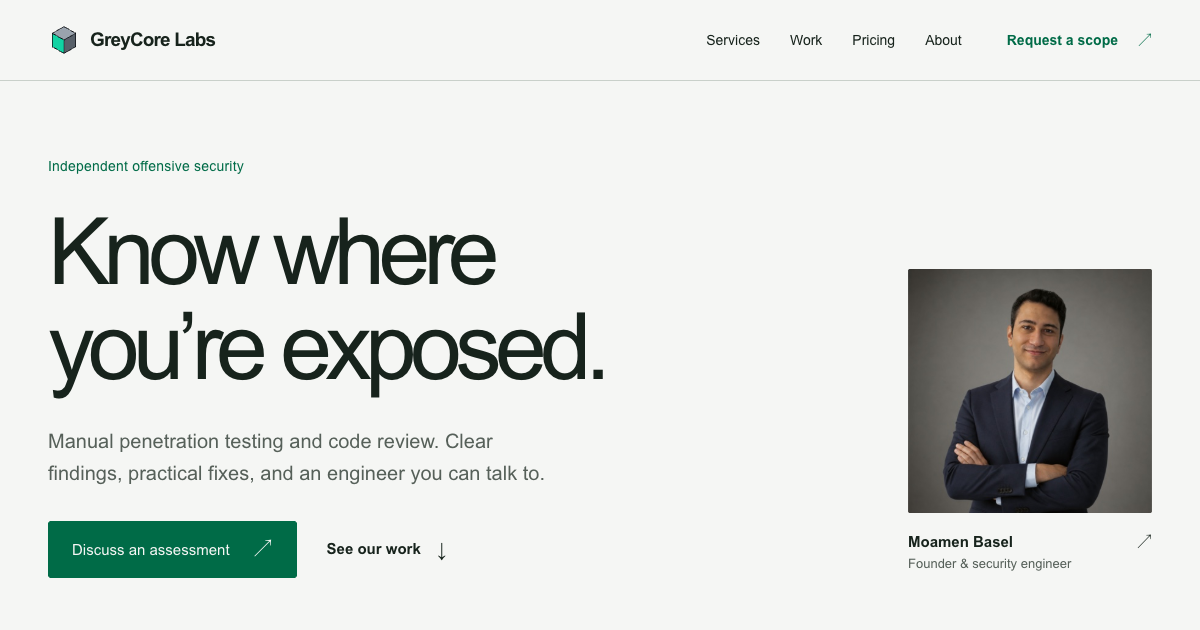
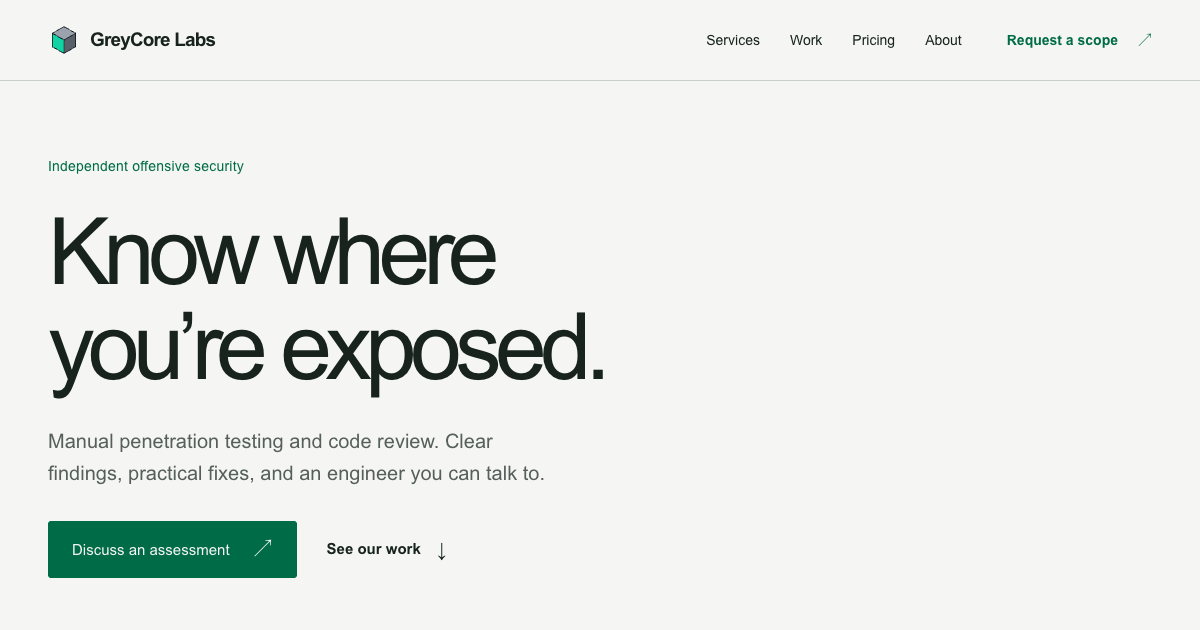
Remove the founder portrait from the homepage and social preview

Changed region(s): [[0.74, 0.4222, 0.9867, 0.8143], [0.74, 0.8444, 0.8942, 0.9048]]

diff --git a/assets/site.css b/assets/site.css
@@ -43,15 +43,13 @@ p{max-width:65ch}
 .nav-links>a{padding:12px 0}
 .nav-links .nav-contact{margin-left:15px;display:inline-flex;gap:20px;align-items:center;color:var(--accent);font-weight:600}
 .nav-toggle{display:none;color:var(--ink);background:none;border:1px solid var(--line);padding:8px 14px;border-radius:3px;cursor:pointer}
-.hero{padding-block:74px 88px;display:grid;grid-template-columns:minmax(0,1fr) 244px;gap:65px;align-items:end}
+.hero{padding-block:74px 88px}
+.hero-copy{max-width:960px}
 .hero .eyebrow{margin-bottom:28px}
 .hero h1{font-size:clamp(64px,7.75vw,108px);font-weight:500;letter-spacing:-.072em;line-height:1.02}
 .hero-description{color:var(--muted);font-size:20px;line-height:1.6;max-width:46ch;margin-top:30px}
 .hero-actions{display:flex;align-items:center;gap:30px;flex-wrap:wrap;margin-top:32px}
-.hero-founder{margin-bottom:3px}
-.hero-founder>img{aspect-ratio:1;object-fit:cover;border-radius:2px}
-.hero-founder figcaption{padding-top:17px;display:flex;flex-direction:column;font-size:13px;color:var(--muted)}
-.hero-founder figcaption a{color:var(--ink);font-size:15px;font-weight:600;display:flex;justify-content:space-between;gap:12px}
+
 #services{border-top:1px solid var(--line)}
 .service-list{border-top:1px solid var(--line)}
 .service{display:grid;grid-template-columns:1fr 1.25fr;gap:64px;padding-block:32px;border-bottom:1px solid var(--line)}
@@ -163,9 +161,9 @@ legend{font-size:13px;font-weight:500;padding:0;margin-bottom:10px}
 .footer-bottom p a{text-decoration:underline}
 .footer-bottom p span{margin-inline:8px}
 @media(prefers-color-scheme:dark){:root{--bg:#18211c;--surface:#202c24;--ink:#ecf0e9;--muted:#b3c0b5;--line:#405146;--accent:#8cdbb4;--button-text:#17231c;--error:#f3a69b}}
-@media(min-width:1440px){.hero{gap:90px;grid-template-columns:minmax(0,1fr) 270px;padding-block:88px 100px}}
-@media(max-width:1100px){.wrap{width:calc(100% - 64px)}.hero{grid-template-columns:minmax(0,1fr) 210px;gap:36px}.hero h1{font-size:7.7vw}.hero-description{font-size:18px}.nav-links{gap:22px}.nav-links .nav-contact{margin-left:0;gap:12px}.process-layout,.about-layout,.scan-layout{gap:55px}.work-layout{gap:38px}.sast-plan{grid-template-columns:1fr 85px 1.4fr 64px;gap:20px}.scope-sizer{gap:30px;padding:28px}.scope-result{padding-left:28px}}
-@media(max-width:900px){.header-inner{min-height:72px;flex-wrap:wrap;gap:0}.js .nav-toggle{display:block}.nav-links{width:100%;padding-bottom:16px;justify-content:space-between;gap:12px;flex-wrap:wrap}.js .nav-links{display:none}.js .nav-links.open{display:flex;align-items:stretch;flex-direction:column;padding-top:12px}.nav-links .nav-contact{margin:0}.nav-links a{padding:10px 0}.hero{grid-template-columns:minmax(0,1fr) 185px;gap:28px;padding-block:56px 64px}.hero h1{font-size:7.7vw}.hero-description{font-size:17px;max-width:35ch}.hero-founder figcaption{font-size:11px}.hero-founder figcaption a{font-size:13px}.hero-actions{gap:20px}.hero-actions .button{font-size:13px;padding-inline:17px;gap:16px}.section{padding-block:76px}.section-intro{margin-bottom:38px}.section-intro>p{font-size:16px}.section-title{font-size:42px}.service{gap:36px;grid-template-columns:.85fr 1.3fr}.service h3{font-size:24px}.service p{font-size:15px}.process-layout{grid-template-columns:1fr;gap:42px}.process-layout .section-intro{max-width:600px}.process-list{display:grid;grid-template-columns:1fr 1fr;gap:30px}.process-list li{margin:0}.process-content>.text-link{margin-top:28px}.work-layout{gap:28px}.research-feature{padding:28px}.assessment-plans{gap:38px}.scope-sizer{grid-template-columns:1fr;gap:28px}.scope-result{padding:24px 0 0;border-left:0;border-top:1px solid var(--line)}.sast-plan{grid-template-columns:1fr 90px;gap:12px 30px}.sast-plan>p:not(.sast-price){grid-column:1;max-width:60ch}.sast-plan>a{grid-column:2;text-align:left}.about-layout,.scan-layout{gap:40px}.faq-layout{grid-template-columns:1fr;gap:32px}.footer-top{align-items:flex-start}.footer-top nav{justify-content:flex-end;gap:12px 20px}.footer-bottom{flex-wrap:wrap;gap:12px 24px}}
-@media(max-width:640px){.wrap{width:calc(100% - 40px)}.header-inner{min-height:68px}.brand{font-size:18px}.brand img{width:28px}.hero{display:block;padding-block:43px 50px}.hero .eyebrow{font-size:12px;margin-bottom:24px}.hero h1{font-size:clamp(43px,10.8vw,67px);letter-spacing:-.07em;line-height:1.05}.hero-description{font-size:17px;max-width:36ch;margin-top:24px}.hero-actions{gap:22px;margin-top:26px}.hero-actions .button{font-size:14px;min-height:48px;padding-inline:16px;gap:18px}.hero-actions>.text-link{font-size:13px;gap:8px}.hero-founder{display:flex;align-items:center;gap:16px;margin:36px 0 0}.hero-founder>img{width:66px;height:66px;flex-shrink:0}.hero-founder figcaption{padding:0;font-size:12px;gap:3px}.hero-founder figcaption a{font-size:14px;gap:32px}.section{padding-block:58px}.section-title{font-size:37px}.section-intro{margin-bottom:32px}.section-intro>p{margin-top:18px;font-size:16px}.service{grid-template-columns:1fr;gap:14px;padding-block:25px}.service h3{font-size:24px}.service .service-detail{font-size:11px}.process-list{grid-template-columns:1fr;gap:26px}.process-list li{padding-left:35px}.process-content>.text-link{margin-left:35px;font-size:13px;gap:10px}.work-layout{grid-template-columns:1fr;gap:24px}.research-feature{gap:32px;padding:28px}.research-feature h3{font-size:39px}.work-kind{margin-bottom:24px}.tool{padding-block:24px}.tool:first-child{padding-top:12px}.product-note{display:block;margin-top:26px;padding-top:22px}.product-note>.text-link{margin-top:12px;font-size:14px}.assessment-plans{grid-template-columns:1fr;gap:36px}.assessment-plan .price{font-size:44px}.assessment-plan ul{font-size:14px}.scope-sizer{padding:23px 18px;margin-top:36px}.scope-controls h3{font-size:20px}.radio-group{gap:6px}.radio-group span{font-size:12px;padding:8px 10px}.estimate-price{font-size:31px}.sast-plans{margin-top:48px}.sast-plans>h3{font-size:23px}.sast-plan{gap:12px 20px;grid-template-columns:1fr 70px}.sast-plan>p:not(.sast-price){font-size:13px}.sast-plan .sast-price{font-size:23px}.sast-plan h4{font-size:18px}.sast-plan>div>p{font-size:12px}.about-layout,.scan-layout{grid-template-columns:1fr;gap:30px}.about-layout .section-intro{margin:0}.about-copy h3{font-size:28px}.about-copy>p:not(.founder-role){font-size:15px}.about-copy>.company-note{font-size:13px!important}.credentials{gap:19px;font-size:11px}.profile-links{font-size:13px}.faq-layout{gap:28px}.faq-list summary{font-size:16px}.faq-list details p{font-size:14px;margin-right:16px}.form-grid{gap:14px}.contact-section{padding-block:65px}.contact-section h2{font-size:64px;margin-top:20px}.contact-email{font-size:clamp(18px,5.5vw,28px);gap:12px;margin-top:30px}.contact-section>p:last-child{font-size:14px}.footer-top{flex-direction:column;gap:26px}.footer-top nav{justify-content:flex-start;gap:12px 24px}.footer-bottom{margin-top:30px;flex-direction:column;gap:12px}}
+@media(min-width:1440px){.hero{padding-block:88px 100px}}
+@media(max-width:1100px){.wrap{width:calc(100% - 64px)}.hero h1{font-size:7.7vw}.hero-description{font-size:18px}.nav-links{gap:22px}.nav-links .nav-contact{margin-left:0;gap:12px}.process-layout,.about-layout,.scan-layout{gap:55px}.work-layout{gap:38px}.sast-plan{grid-template-columns:1fr 85px 1.4fr 64px;gap:20px}.scope-sizer{gap:30px;padding:28px}.scope-result{padding-left:28px}}
+@media(max-width:900px){.header-inner{min-height:72px;flex-wrap:wrap;gap:0}.js .nav-toggle{display:block}.nav-links{width:100%;padding-bottom:16px;justify-content:space-between;gap:12px;flex-wrap:wrap}.js .nav-links{display:none}.js .nav-links.open{display:flex;align-items:stretch;flex-direction:column;padding-top:12px}.nav-links .nav-contact{margin:0}.nav-links a{padding:10px 0}.hero{padding-block:56px 64px}.hero h1{font-size:7.7vw}.hero-description{font-size:17px;max-width:35ch}.hero-actions{gap:20px}.hero-actions .button{font-size:13px;padding-inline:17px;gap:16px}.section{padding-block:76px}.section-intro{margin-bottom:38px}.section-intro>p{font-size:16px}.section-title{font-size:42px}.service{gap:36px;grid-template-columns:.85fr 1.3fr}.service h3{font-size:24px}.service p{font-size:15px}.process-layout{grid-template-columns:1fr;gap:42px}.process-layout .section-intro{max-width:600px}.process-list{display:grid;grid-template-columns:1fr 1fr;gap:30px}.process-list li{margin:0}.process-content>.text-link{margin-top:28px}.work-layout{gap:28px}.research-feature{padding:28px}.assessment-plans{gap:38px}.scope-sizer{grid-template-columns:1fr;gap:28px}.scope-result{padding:24px 0 0;border-left:0;border-top:1px solid var(--line)}.sast-plan{grid-template-columns:1fr 90px;gap:12px 30px}.sast-plan>p:not(.sast-price){grid-column:1;max-width:60ch}.sast-plan>a{grid-column:2;text-align:left}.about-layout,.scan-layout{gap:40px}.faq-layout{grid-template-columns:1fr;gap:32px}.footer-top{align-items:flex-start}.footer-top nav{justify-content:flex-end;gap:12px 20px}.footer-bottom{flex-wrap:wrap;gap:12px 24px}}
+@media(max-width:640px){.wrap{width:calc(100% - 40px)}.header-inner{min-height:68px}.brand{font-size:18px}.brand img{width:28px}.hero{padding-block:43px 50px}.hero .eyebrow{font-size:12px;margin-bottom:24px}.hero h1{font-size:clamp(43px,10.8vw,67px);letter-spacing:-.07em;line-height:1.05}.hero-description{font-size:17px;max-width:36ch;margin-top:24px}.hero-actions{gap:22px;margin-top:26px}.hero-actions .button{font-size:14px;min-height:48px;padding-inline:16px;gap:18px}.hero-actions>.text-link{font-size:13px;gap:8px}.section{padding-block:58px}.section-title{font-size:37px}.section-intro{margin-bottom:32px}.section-intro>p{margin-top:18px;font-size:16px}.service{grid-template-columns:1fr;gap:14px;padding-block:25px}.service h3{font-size:24px}.service .service-detail{font-size:11px}.process-list{grid-template-columns:1fr;gap:26px}.process-list li{padding-left:35px}.process-content>.text-link{margin-left:35px;font-size:13px;gap:10px}.work-layout{grid-template-columns:1fr;gap:24px}.research-feature{gap:32px;padding:28px}.research-feature h3{font-size:39px}.work-kind{margin-bottom:24px}.tool{padding-block:24px}.tool:first-child{padding-top:12px}.product-note{display:block;margin-top:26px;padding-top:22px}.product-note>.text-link{margin-top:12px;font-size:14px}.assessment-plans{grid-template-columns:1fr;gap:36px}.assessment-plan .price{font-size:44px}.assessment-plan ul{font-size:14px}.scope-sizer{padding:23px 18px;margin-top:36px}.scope-controls h3{font-size:20px}.radio-group{gap:6px}.radio-group span{font-size:12px;padding:8px 10px}.estimate-price{font-size:31px}.sast-plans{margin-top:48px}.sast-plans>h3{font-size:23px}.sast-plan{gap:12px 20px;grid-template-columns:1fr 70px}.sast-plan>p:not(.sast-price){font-size:13px}.sast-plan .sast-price{font-size:23px}.sast-plan h4{font-size:18px}.sast-plan>div>p{font-size:12px}.about-layout,.scan-layout{grid-template-columns:1fr;gap:30px}.about-layout .section-intro{margin:0}.about-copy h3{font-size:28px}.about-copy>p:not(.founder-role){font-size:15px}.about-copy>.company-note{font-size:13px!important}.credentials{gap:19px;font-size:11px}.profile-links{font-size:13px}.faq-layout{gap:28px}.faq-list summary{font-size:16px}.faq-list details p{font-size:14px;margin-right:16px}.form-grid{gap:14px}.contact-section{padding-block:65px}.contact-section h2{font-size:64px;margin-top:20px}.contact-email{font-size:clamp(18px,5.5vw,28px);gap:12px;margin-top:30px}.contact-section>p:last-child{font-size:14px}.footer-top{flex-direction:column;gap:26px}.footer-top nav{justify-content:flex-start;gap:12px 24px}.footer-bottom{margin-top:30px;flex-direction:column;gap:12px}}
 @media(prefers-reduced-motion:reduce){html{scroll-behavior:auto}*,*:before,*:after{animation:none!important;transition:none!important}}
 @media print{.site-header,.site-footer,.hero-actions,.scan-section,.scope-sizer{display:none!important}.section{padding-block:24px}body{background:#fff;color:#17231c}.wrap{width:100%}a{text-decoration:underline}}

diff --git a/index.html b/index.html
@@ -19,13 +19,13 @@
   <meta property="og:description" content="Independent penetration testing, source code review, and security automation. Work directly with the engineer testing your systems.">
   <meta property="og:type" content="website">
   <meta property="og:url" content="https://greycorelabs.com">
-  <meta property="og:image" content="https://greycorelabs.com/og.png">
+  <meta property="og:image" content="https://greycorelabs.com/og.png?v=2">
   <meta property="og:image:width" content="1200">
   <meta property="og:image:height" content="630">
   <meta name="twitter:card" content="summary_large_image">
   <meta name="twitter:title" content="GreyCore Labs | Offensive Security">
   <meta name="twitter:description" content="US-incorporated offensive security firm. Pentest, SAST, code review.">
-  <meta name="twitter:image" content="https://greycorelabs.com/og.png">
+  <meta name="twitter:image" content="https://greycorelabs.com/og.png?v=2">
   <meta name="author" content="Moamen Basel">
   <meta name="theme-color" content="#f5f6f4">
   <link rel="canonical" href="https://greycorelabs.com">
@@ -41,7 +41,7 @@
     "description": "US-incorporated offensive security firm. Penetration testing, code review automation, source code review, and threat intelligence.",
     "url": "https://greycorelabs.com",
     "logo": "https://greycorelabs.com/logo.svg",
-    "image": "https://greycorelabs.com/og.png",
+    "image": "https://greycorelabs.com/og.png?v=2",
     "email": "contact@greycorelabs.com",
     "sameAs": [
       "https://github.com/greycorelabs",
@@ -91,10 +91,6 @@
         <p class="hero-description">Manual penetration testing and code review. Clear findings, practical fixes, and an engineer you can talk to.</p>
         <div class="hero-actions"><a class="button" href="#contact">Discuss an assessment <span aria-hidden="true">↗</span></a><a class="text-link" href="#work">See our work <span aria-hidden="true">↓</span></a></div>
       </div>
-      <figure class="hero-founder">
-        <img src="founder.jpg" alt="Moamen Basel, founder of GreyCore Labs" width="400" height="400" fetchpriority="high">
-        <figcaption><a href="#about">Moamen Basel <span aria-hidden="true">↗</span></a><span>Founder &amp; security engineer</span></figcaption>
-      </figure>
     </section>
     <section id="services" class="section wrap" aria-labelledby="services-title">
       <div class="section-intro"><h2 id="services-title" class="section-title">Put your systems<br>to the test.</h2><p>Start with an application, a codebase, or your infrastructure. We agree the scope and test the paths that matter.</p></div>

diff --git a/world.html b/world.html
@@ -10,7 +10,7 @@
   <meta property="og:type" content="website">
   <meta property="og:title" content="Inside an assessment | GreyCore Labs">
   <meta property="og:description" content="What we test, how we document findings, and what your team receives.">
-  <meta property="og:image" content="https://greycorelabs.com/og.png">
+  <meta property="og:image" content="https://greycorelabs.com/og.png?v=2">
   <meta property="og:url" content="https://greycorelabs.com/world.html">
   <meta name="twitter:card" content="summary_large_image">
   <link rel="stylesheet" href="assets/site.css">
